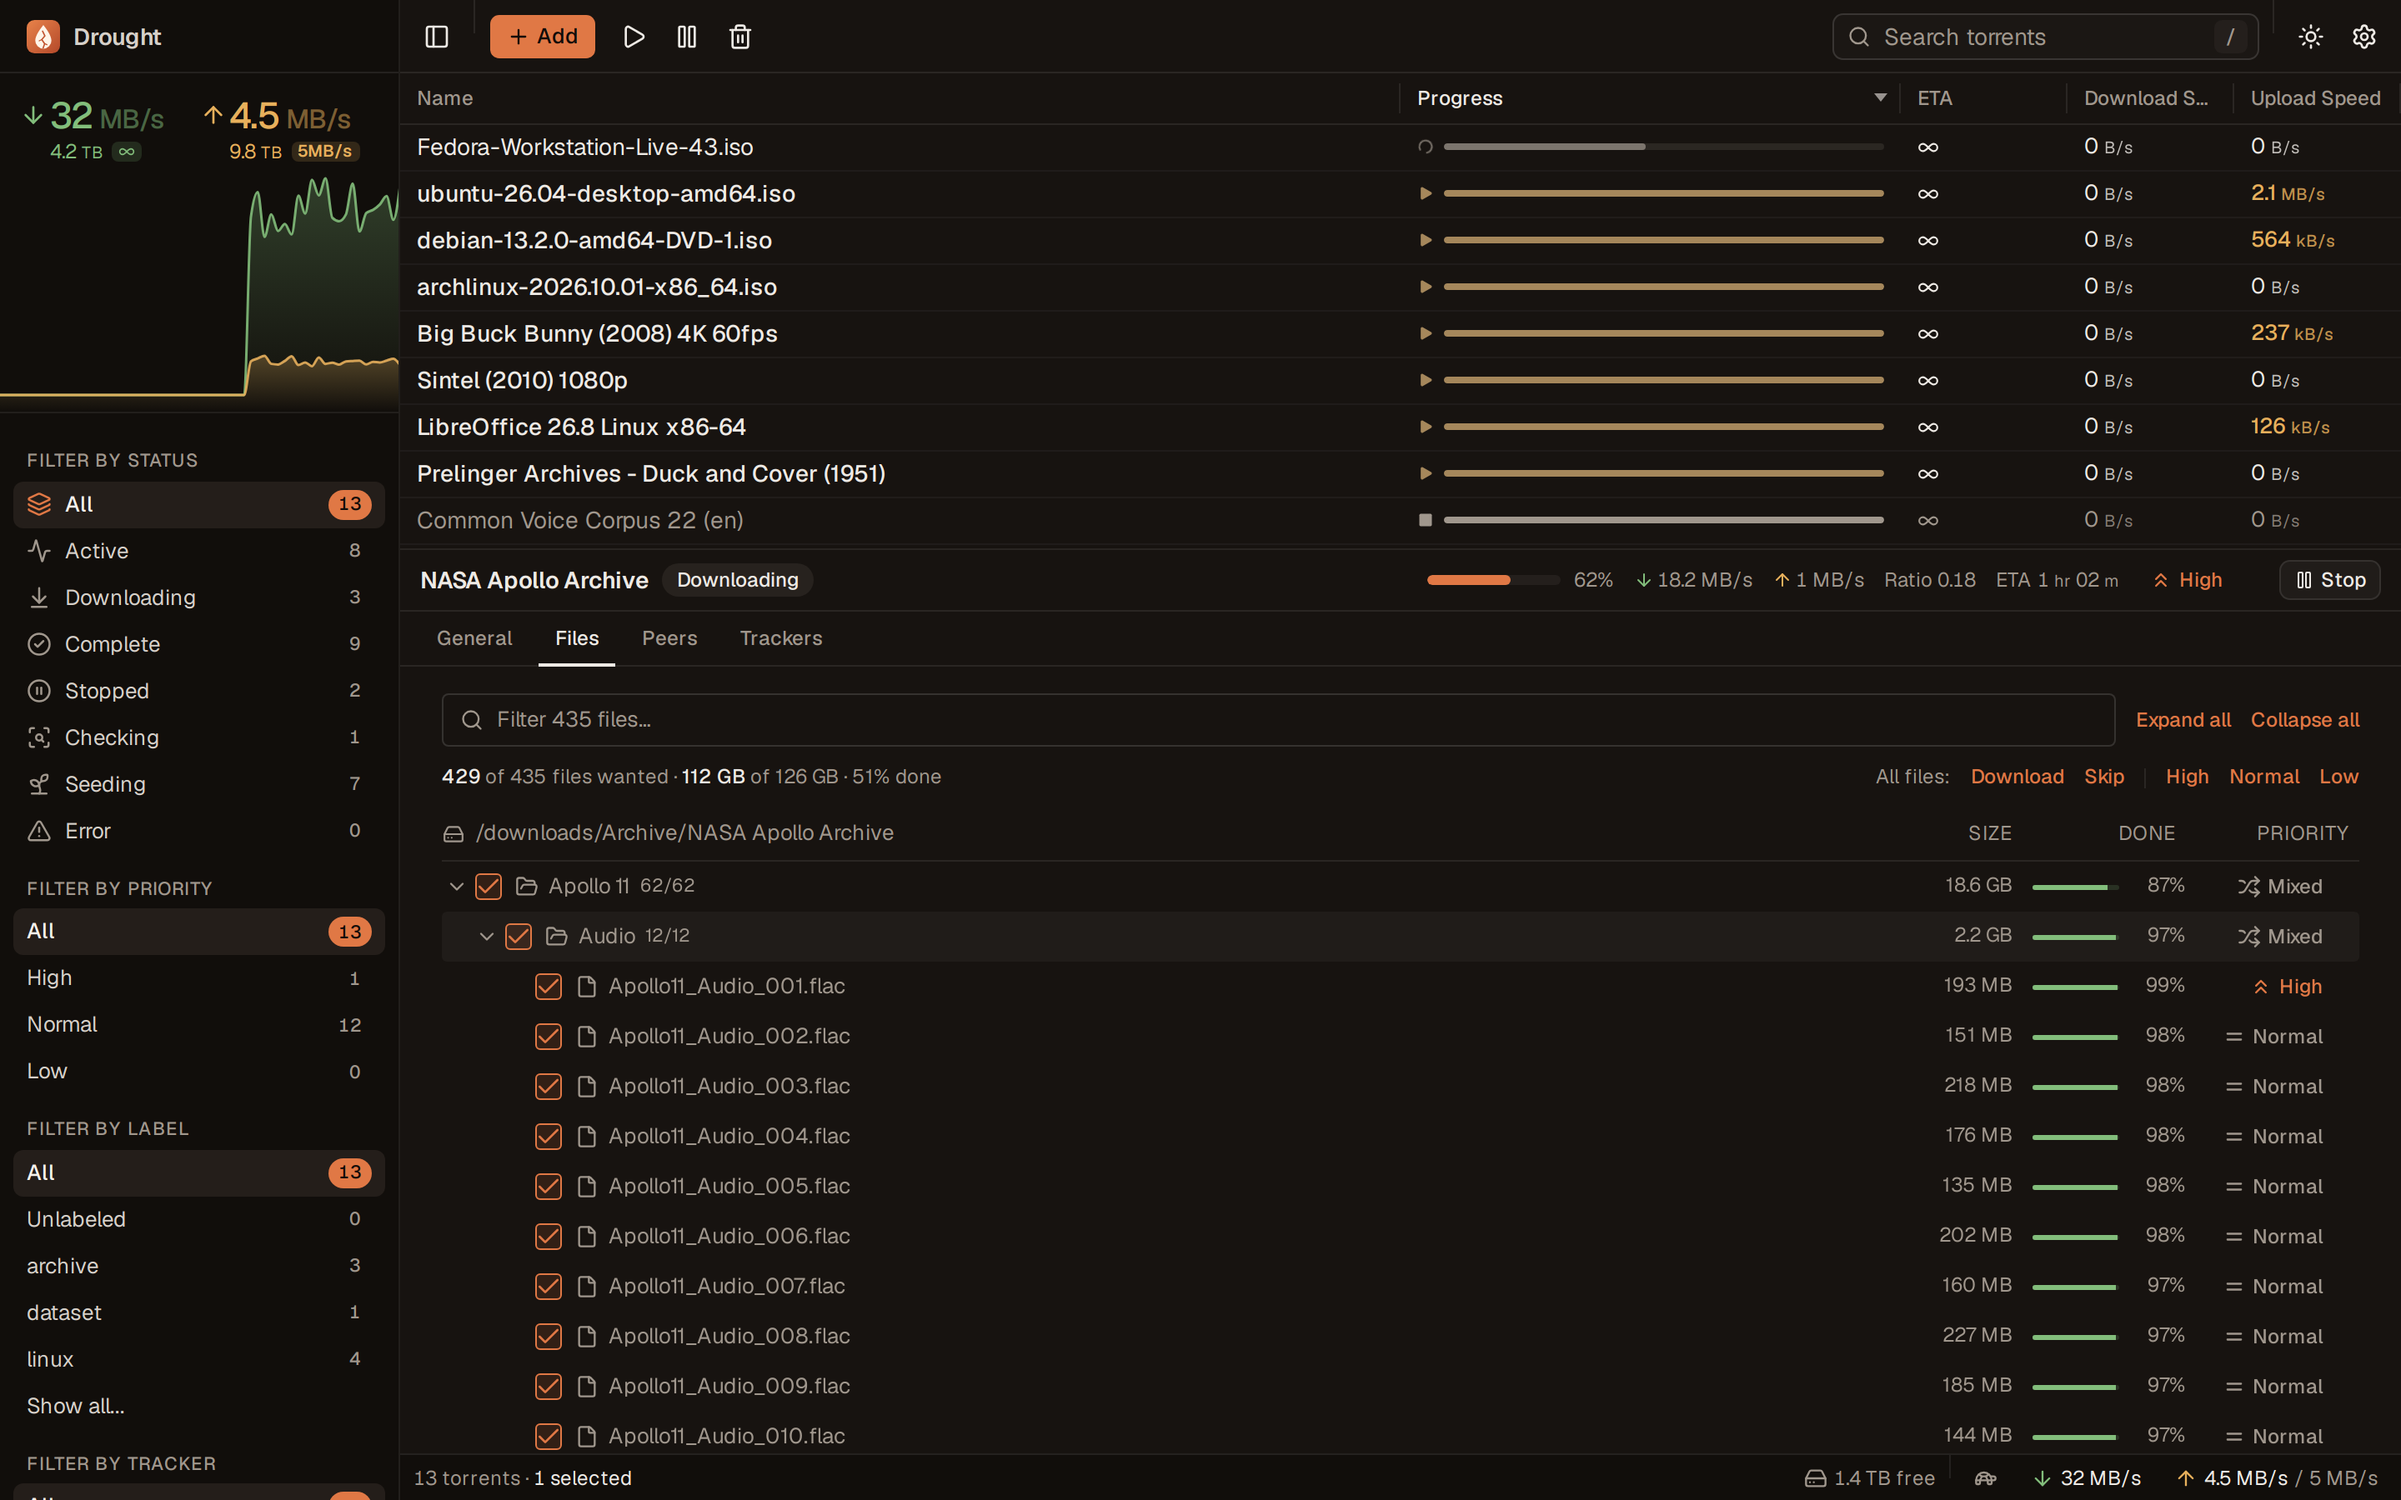
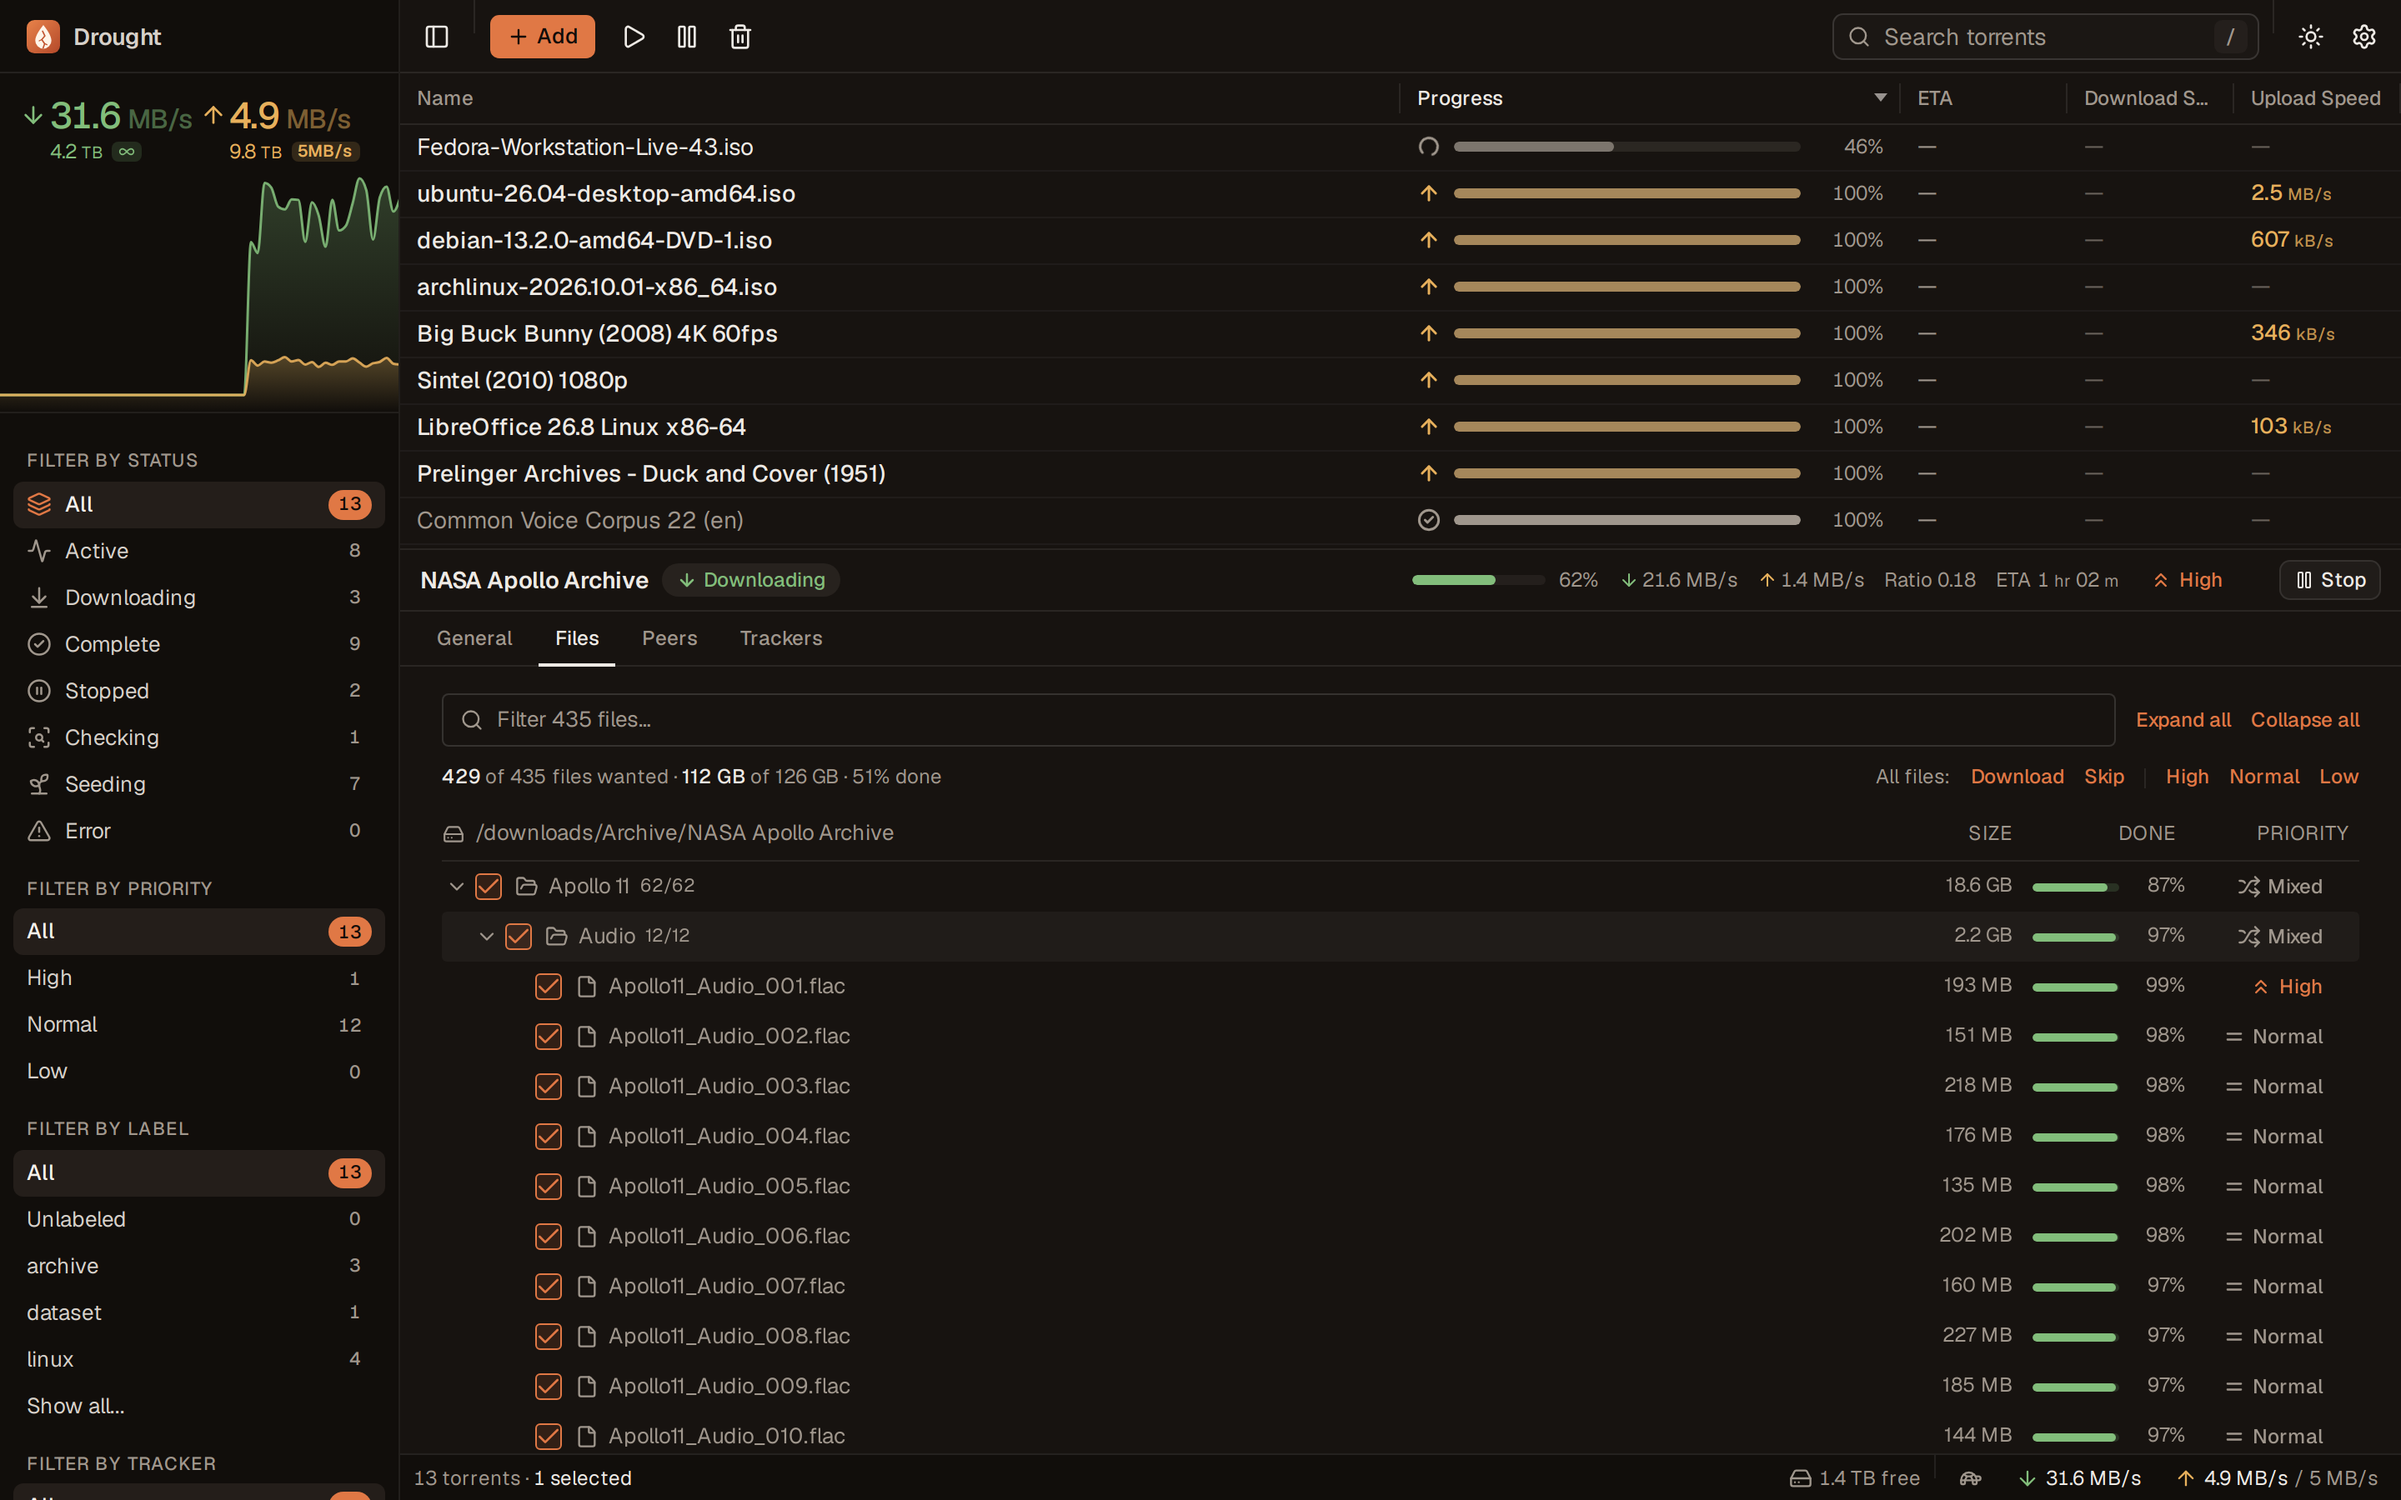
Give progress, ETA and speeds the same informative style
- Progress column: a status icon (downloading, seeding, finished,
  stopped, queued, checking, error), a thicker rounded bar and the
  percentage as text, with a tooltip like "Downloading · 62%". Unfinished
  torrents never round up to 100%.
- One status helper drives both the list and the details pane badge, which
  now shows the same icon and color.
- ETA shows "—" when there's nothing to estimate and ∞ only when
  Transmission can't estimate yet.
- Idle speeds show a faint "—" instead of rows of "0 B/s".
- Files tab bars are thicker and turn sand when a file is complete; the
  details header bar follows the same colors.
- Refresh README screenshots.

diff --git a/src/components/TorrentList/Renderers/ProgressRenderer.svelte b/src/components/TorrentList/Renderers/ProgressRenderer.svelte
@@ -1,20 +1,9 @@
 <script>
-  import PlayIcon from '@lucide/svelte/icons/play';
-  import SquareIcon from '@lucide/svelte/icons/square';
-  import LoaderIcon from '@lucide/svelte/icons/loader-circle';
-  import {
-    STATUS_STOPPED,
-    STATUS_DOWNLOADING,
-    STATUS_SEEDING,
-  } from '~helpers/constants/statuses';
+  import { STATUSES } from '~helpers/constants/statuses';
+  import { getTorrentStatus } from '~helpers/torrentStatusHelper';
   import ProgressBar from '../../ProgressBar/ProgressBar.svelte';
 
-  const STATUS_ICON_MAP = {
-    [STATUS_STOPPED]: SquareIcon,
-    [STATUS_DOWNLOADING]: PlayIcon,
-    [STATUS_SEEDING]: PlayIcon,
-  };
-
+  export let torrent;
   export let value;
   export let torrentStatus;
   export let torrentStatusClass;
@@ -22,28 +11,31 @@
   export let checkingProgress;
   export const column = null;
 
-  let progress = 0;
-  $: {
-    if (!Object.keys(STATUS_ICON_MAP).includes(torrentStatus)) {
-      progress = checkingProgress * 100;
-    } else if (metadataProgress < 1) {
-      progress = metadataProgress * 100;
-    } else {
-      progress = value * 100;
-    }
-  }
-  // Checking and other transitional states get a spinner
-  $: statusIcon = STATUS_ICON_MAP[torrentStatus] || LoaderIcon;
+  $: status = getTorrentStatus(torrent);
+  $: isChecking = !STATUSES.includes(torrentStatus) || status.spin;
+  $: progress =
+    metadataProgress < 1
+      ? metadataProgress * 100
+      : checkingProgress > 0 && checkingProgress < 1
+        ? checkingProgress * 100
+        : value * 100;
+  // Show 99.9% rather than rounding an unfinished torrent up to 100%
+  $: percent = progress >= 100 ? '100' : String(Math.floor(progress * 10) / 10);
 </script>
 
-<div class="progress-renderer {torrentStatusClass}">
+<div
+  class="progress-renderer {torrentStatusClass}"
+  class:busy={isChecking}
+  title="{status.label} · {percent}%"
+  style="--status-tone: {status.tone}"
+>
   <svelte:component
-    this={statusIcon}
-    class="icon {statusIcon === LoaderIcon ? 'animate-spin' : ''}"
-    fill={statusIcon === LoaderIcon ? 'none' : 'currentColor'}
-    strokeWidth={statusIcon === LoaderIcon ? 2.5 : 0}
+    this={status.icon}
+    class="status-icon {status.spin ? 'animate-spin' : ''}"
+    strokeWidth={2.5}
   />
   <ProgressBar progress={progress} />
+  <span class="percent">{percent}%</span>
 </div>
 
 <style>
@@ -53,27 +45,30 @@
 
     align-items: center;
     display: flex;
+    gap: 8px;
     width: 100%;
     z-index: 1;
-    color: var(--progess-color);
   }
 
-  .progress-renderer :global(.icon) {
+  .progress-renderer :global(.status-icon) {
     flex: 0 0 auto;
-    box-sizing: initial;
-    margin-right: 6px;
-    display: block;
-    height: 10px;
-    width: 10px;
+    width: 14px;
+    height: 14px;
+    color: var(--status-tone);
   }
 
-  /*
-  1: unselected downloading - green - default
-  2: unselected uploading - blue
-  3: unselected stopped - grey
-  4: unselected error - red
-  5: unselected checking/metadata - dark grey
-  */
+  .percent {
+    flex: 0 0 42px;
+    text-align: right;
+    font-size: 12px;
+    font-variant-numeric: tabular-nums;
+    color: var(--foreground);
+  }
+
+  .completed .percent,
+  .stopped .percent {
+    color: var(--muted-foreground);
+  }
 
   .completed {
     --progess-color: var(--color-progress-bar-upload);
@@ -91,7 +86,8 @@
   }
 
   .checking,
-  .metadata {
+  .metadata,
+  .busy {
     --progess-color: var(--color-progress-bar-metadata);
     --background-color: var(--color-progress-bar-metadata-background);
   }

diff --git a/src/helpers/torrentStatusHelper.js b/src/helpers/torrentStatusHelper.js
@@ -1,0 +1,75 @@
+import ArrowDownIcon from '@lucide/svelte/icons/arrow-down';
+import ArrowUpIcon from '@lucide/svelte/icons/arrow-up';
+import CircleCheckIcon from '@lucide/svelte/icons/circle-check';
+import PauseIcon from '@lucide/svelte/icons/pause';
+import ClockIcon from '@lucide/svelte/icons/clock';
+import LoaderIcon from '@lucide/svelte/icons/loader-circle';
+import TriangleAlertIcon from '@lucide/svelte/icons/triangle-alert';
+import {
+  STATUSES,
+  STATUS_CHECK_WAITING,
+  STATUS_CHECKING,
+  STATUS_DOWNLOAD_WAITING,
+  STATUS_DOWNLOADING,
+  STATUS_SEED_WAITING,
+  STATUS_SEEDING,
+} from '~helpers/constants/statuses';
+import { TRANSMISSION_COLUMN } from '~helpers/constants/columns';
+
+// tone is a CSS color, so it works in both Tailwind and scoped styles
+const TONES = {
+  download: 'var(--color-download)',
+  upload: 'var(--color-upload)',
+  muted: 'var(--muted-foreground)',
+  error: 'var(--destructive)',
+};
+
+// One place deciding how a torrent's state is shown: icon, label and color
+export const getTorrentStatus = (torrent) => {
+  const status = STATUSES[torrent[TRANSMISSION_COLUMN.STATUS]];
+  const done = torrent[TRANSMISSION_COLUMN.DOWNLOAD_PROGRESS] === 1;
+
+  if (torrent[TRANSMISSION_COLUMN.ERROR] > 1) {
+    return { label: 'Error', icon: TriangleAlertIcon, tone: TONES.error };
+  }
+  if (torrent[TRANSMISSION_COLUMN.METADATA_PROGRESS] < 1) {
+    return {
+      label: 'Fetching metadata',
+      icon: LoaderIcon,
+      tone: TONES.muted,
+      spin: true,
+    };
+  }
+
+  switch (status) {
+    case STATUS_DOWNLOADING:
+      return {
+        label: 'Downloading',
+        icon: ArrowDownIcon,
+        tone: TONES.download,
+      };
+    case STATUS_SEEDING:
+      return { label: 'Seeding', icon: ArrowUpIcon, tone: TONES.upload };
+    case STATUS_CHECKING:
+      return {
+        label: 'Checking',
+        icon: LoaderIcon,
+        tone: TONES.muted,
+        spin: true,
+      };
+    case STATUS_CHECK_WAITING:
+      return { label: 'Queued for check', icon: ClockIcon, tone: TONES.muted };
+    case STATUS_DOWNLOAD_WAITING:
+      return { label: 'Queued', icon: ClockIcon, tone: TONES.muted };
+    case STATUS_SEED_WAITING:
+      return {
+        label: 'Queued for seeding',
+        icon: ClockIcon,
+        tone: TONES.muted,
+      };
+    default:
+      return done
+        ? { label: 'Finished', icon: CircleCheckIcon, tone: TONES.muted }
+        : { label: 'Stopped', icon: PauseIcon, tone: TONES.muted };
+  }
+};

diff --git a/src/components/DetailsPane/DetailsPane.svelte b/src/components/DetailsPane/DetailsPane.svelte
@@ -13,6 +13,7 @@
   import Peers from '~components/Modal/TorrentDetail/Peers';
   import Trackers from '~components/Modal/TorrentDetail/Trackers';
   import PrioritySelect from '~components/PriorityIndicator';
+  import { getTorrentStatus } from '~helpers/torrentStatusHelper';
   import ArrivalRenderer from '~components/TorrentList/Renderers/ArrivalRenderer.svelte';
   import {
     torrentDetails,
@@ -66,7 +67,7 @@
   const torrentId = $derived($selectedTorrents.at(-1) ?? 0);
   const torrent = $derived($torrentDetails);
   const loaded = $derived(torrent.loaded && torrent.id === torrentId);
-  const status = $derived(STATUSES[torrent[TRANSMISSION_COLUMN.STATUS]]);
+  const statusInfo = $derived(getTorrentStatus(torrent));
   const isStopped = $derived(
     torrent[TRANSMISSION_COLUMN.STATUS] === STATUSES.indexOf(STATUS_STOPPED)
   );
@@ -194,7 +195,17 @@
             </h2>
           {/if}
           {#if loaded}
-            <Badge variant="secondary" class="shrink-0">{status}</Badge>
+            <Badge
+              variant="secondary"
+              class="shrink-0 gap-1"
+              style="color: {statusInfo.tone}"
+            >
+              <statusInfo.icon
+                class="size-3 {statusInfo.spin ? 'animate-spin' : ''}"
+                strokeWidth={2.5}
+              />
+              {statusInfo.label}
+            </Badge>
           {:else}
             <LoaderIcon class="size-4 animate-spin text-muted-foreground" />
           {/if}
@@ -207,8 +218,10 @@
             <span class="flex items-center gap-2">
               <span class="h-1.5 w-20 overflow-hidden rounded-full bg-muted">
                 <span
-                  class="block h-full rounded-full bg-primary"
-                  style="width: {progress}%"
+                  class="block h-full rounded-full"
+                  style="width: {progress}%; background: {progress >= 100
+                    ? 'var(--color-progress-bar-upload)'
+                    : 'var(--color-progress-bar-download)'}"
                 ></span>
               </span>
               {progress}%

diff --git a/src/components/Modal/TorrentDetail/Files/Files.svelte b/src/components/Modal/TorrentDetail/Files/Files.svelte
@@ -360,7 +360,11 @@
               <div class="column size">{formatSize(info.length)}</div>
               <div class="column progress">
                 <div class="bar">
-                  <div class="fill" style="width: {info.percent}%"></div>
+                  <div
+                    class="fill"
+                    class:complete={info.percent === 100}
+                    style="width: {info.percent}%"
+                  ></div>
                 </div>
                 <span>{info.percent}%</span>
               </div>
@@ -683,15 +687,20 @@
 
   .bar {
     flex-grow: 1;
-    height: 3px;
-    border-radius: 2px;
+    height: 5px;
+    border-radius: 999px;
     background: var(--color-progress-bar-download-background);
     overflow: hidden;
   }
 
   .fill {
     height: 100%;
+    border-radius: 999px;
     background: var(--color-progress-bar-download);
+  }
+
+  .fill.complete {
+    background: var(--color-progress-bar-upload);
   }
 
   .header-row .progress,

diff --git a/src/components/TorrentList/Renderers/SizeRenderer.svelte b/src/components/TorrentList/Renderers/SizeRenderer.svelte
@@ -11,17 +11,26 @@
   $: ({ size, value } = getSize(value, { isSpeed, perSize }));
 </script>
 
-<span
-  class:speed={isSpeed}
-  class:active={value > 0}
-  class:upload={isUpload}
-  class={torrentStatusClass}
->
-  {value}
-  <em>{size}</em>
-</span>
+{#if isSpeed && !value}
+  <span class="idle" title="Idle">—</span>
+{:else}
+  <span
+    class:speed={isSpeed}
+    class:active={value > 0}
+    class:upload={isUpload}
+    class={torrentStatusClass}
+  >
+    {value}
+    <em>{size}</em>
+  </span>
+{/if}
 
 <style>
+  .idle {
+    color: var(--muted-foreground);
+    opacity: 0.6;
+  }
+
   em {
     font-size: 10px;
     font-style: normal;

diff --git a/src/components/TorrentList/Renderers/ArrivalRenderer.svelte b/src/components/TorrentList/Renderers/ArrivalRenderer.svelte
@@ -20,8 +20,14 @@
 </script>
 
 <span>
-  {#if value <= 0}
-    <InfinityIcon class="icon" />
+  <!-- Transmission reports -1 when there's nothing to estimate (finished,
+  stopped) and -2 when it can't estimate (no peers or speed) -->
+  {#if value === -2}
+    <span class="muted" title="Can't estimate yet">
+      <InfinityIcon class="icon" />
+    </span>
+  {:else if value <= 0}
+    <span class="muted" title="Nothing left to download">—</span>
   {:else if days}
     {days}
     <em>d</em>
@@ -41,6 +47,10 @@
 </span>
 
 <style>
+  .muted {
+    color: var(--muted-foreground);
+  }
+
   em {
     font-style: normal;
     font-size: 10px;

diff --git a/src/components/ProgressBar/ProgressBar.svelte b/src/components/ProgressBar/ProgressBar.svelte
@@ -11,16 +11,16 @@
     background: var(--progess-color);
     border-radius: 999px;
     display: block;
-    height: 4px;
+    height: 100%;
     width: 100%;
-    transition: width 100ms;
+    transition: width 300ms ease-out;
   }
 
   .fill-wrapper {
     background: var(--background-color);
     flex: 1 1 auto;
     position: relative;
-    height: 4px;
+    height: var(--progress-height, 6px);
     border-radius: 999px;
     overflow: hidden;
   }

diff --git a/src/components/TorrentList/Torrent.svelte b/src/components/TorrentList/Torrent.svelte
@@ -71,6 +71,7 @@
         metadataProgress: torrent[TRANSMISSION_COLUMN.METADATA_PROGRESS],
         checkingProgress: torrent[TRANSMISSION_COLUMN.RECHECK_PROGRESS],
         torrentStatus: STATUSES[torrent[TRANSMISSION_COLUMN.STATUS]],
+        torrent,
       }),
     },
     [UI_COLUMN.DOWNLOADED.id]: {

diff --git a/src/components/Modal/TorrentDetail/Header/Header.svelte b/src/components/Modal/TorrentDetail/Header/Header.svelte
@@ -199,6 +199,7 @@
     </ul>
   </div>
   <ProgressRenderer
+    torrent={$torrentDetails}
     value={$torrentDetails[TRANSMISSION_COLUMN.DOWNLOAD_PROGRESS]}
     torrentStatus={STATUSES[$torrentDetails[TRANSMISSION_COLUMN.STATUS]]}
     torrentStatusClass={generateTorrentStatusClass($torrentDetails)}
